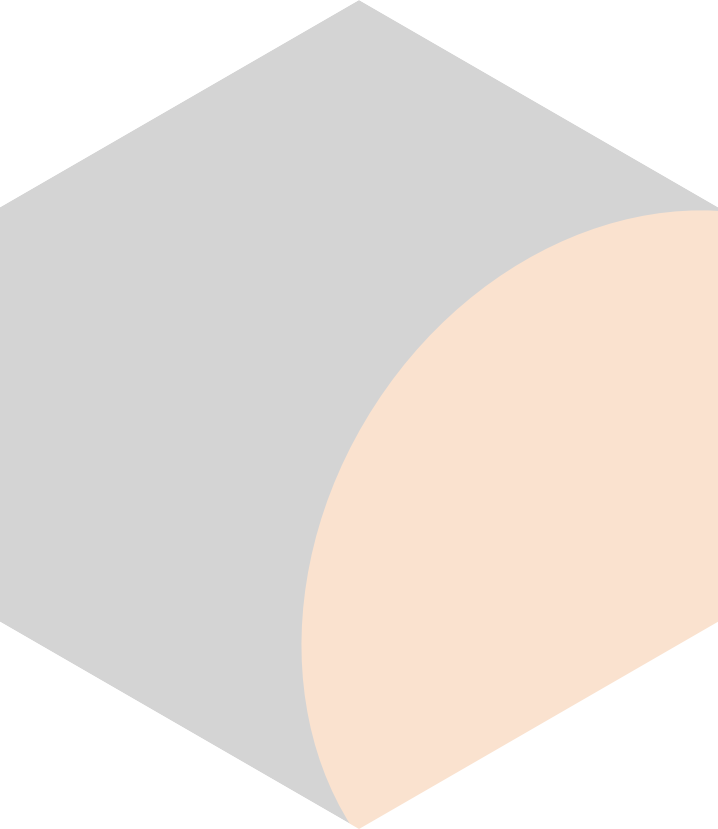
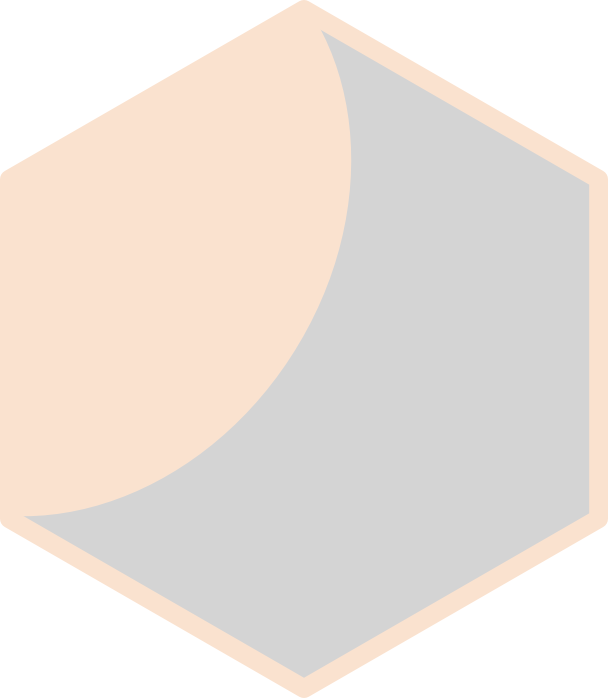
Feld Füttern_1 nur für sonne

diff --git a/frontend/Spielfenster.cs b/frontend/Spielfenster.cs
@@ -16,11 +16,16 @@ namespace ForestSpirits.Frontend
 		private Point wasserLocation;
 		private int sonneWidth = 100;
 		private int pflanzeWidth = 40;
+		private int feldWidth = 100;
 		private GameState lastGameState;
 		private Image sonneImg;
 		private Image wasserImg;
 		private Image setzlingImg;
 		private bool setzlingReady = false;
+		private bool sonneNehmen = false;
+		//private Image zweieckDefaultImg;
+		private Image zweieckMediumImg;
+		//private Image zweieckRipeImg;
 
 		public Spielfenster()
 		{
@@ -35,6 +40,12 @@ namespace ForestSpirits.Frontend
 			wasserImg = FileUtils.resizeImage(wasserImg, sonneWidth, sonneWidth);
 			setzlingImg = FileUtils.loadImage("setzling.png");
 			setzlingImg = FileUtils.resizeImage(setzlingImg, pflanzeWidth, pflanzeWidth);
+			//zweieckDefaultImg = FileUtils.loadImage("Zweieck.png");
+			//zweieckDefaultImg = FileUtils.resizeImage(zweieckDefaultImg, IMAGE_WIDTH, IMAGE_HEIGHT);
+			zweieckMediumImg = FileUtils.loadImage("Zweieck_medium.png");
+			zweieckMediumImg = FileUtils.resizeImage(zweieckMediumImg, feldWidth, feldWidth);
+			//zweieckRipeImg = FileUtils.loadImage("Zweieck_ripe.png");
+			//zweieckRipeImg = FileUtils.resizeImage(zweieckRipeImg, IMAGE_WIDTH, IMAGE_HEIGHT);
 		}
 
 		public void showGameState(GameState gameState)
@@ -83,14 +94,26 @@ namespace ForestSpirits.Frontend
 				Console.WriteLine("test");
 			}
 
+			foreach (Feld feld in gameState.feldRegister.felder)
+			{
+				Point location = board.getPoint(new Coordinate(feld.location.x, feld.location.y));
+				float fieldWidth = board.getfieldWidth();
+				float fieldHeight = board.getFieldHeight();
+				location.X += ((int)(fieldWidth) / 2) - zweieckMediumImg.Width / 2;
+				location.Y += ((int)(fieldHeight) / 2) - zweieckMediumImg.Width / 2;
+
+				graphics.DrawImage(zweieckMediumImg, location);
+				Console.WriteLine("test");
+			}
 			// Inventar befüllen
 			this.sonne.Text = "Sonne " + gameState.inventar.sonne;
 			this.wasser.Text = "Wasser " + gameState.inventar.wasser;
 			this.setzlinge.Text = "Setzlinge " + gameState.inventar.setzlinge;
 			lastGameState = gameState;
-		}
 
-		private void onClick(object sender, MouseEventArgs e)
+        }
+
+        private void onClick(object sender, MouseEventArgs e)
 		{
 			debugLastClick(e);
 
@@ -116,15 +139,19 @@ namespace ForestSpirits.Frontend
 				game.setzlingPflanzen(new BusinessCoordinate(coordinate.x, coordinate.y));
 				resetButtons();
 			}
-			else
-			{
-			}
-		}
+            if (sonneNehmen)
+            {
+                Coordinate coordinate = board.getCoordinates(e.X, e.Y);
+				game.fueternMitSonne(new BusinessCoordinate(coordinate.x, coordinate.y));
+				resetButtons();
+            }
+        }
 
-		// wenn geclickt wird, sollen die Buttons nicht "aktiv" bleiben
-		private void resetButtons()
+        // wenn geclickt wird, sollen die Buttons nicht "aktiv" bleiben
+        private void resetButtons()
 		{
 			this.setzlingReady = false;
+			this.sonneNehmen = false;
 		}
 
 		private void debugLastClick(MouseEventArgs e)
@@ -145,5 +172,10 @@ namespace ForestSpirits.Frontend
 		{
 			setzlingReady = true;
 		}
-	}
+
+		 private void sonne_Click(object sender, EventArgs e)
+        {
+            sonneNehmen = true;
+        }
+    }
 }

diff --git a/business/GameEngine.cs b/business/GameEngine.cs
@@ -1,5 +1,6 @@
 using System;
 using System.Collections.Generic;
+using System.Drawing;
 using System.Linq;
 using System.Text;
 using System.Threading;
@@ -54,7 +55,18 @@ namespace ForestSpirits.Business
 			}
 		}
 
-		private GameState update()
+        public void fueternMitSonne(BusinessCoordinate location)
+        {
+            if (lastGameState.inventar.sonne > 0)
+            {
+                lastGameState.inventar.sonne--;
+				Feld newFeld = new Feld(location);
+				lastGameState.feldRegister.felder.Add(newFeld);
+				//	//fieldImg = "Zwieeck_medium.png";//change the picture
+			}
+        }
+
+        private GameState update()
 		{
 			GameState gameState = new GameState();
 			gameState.time = DateTime.Now.ToString();
@@ -63,8 +75,9 @@ namespace ForestSpirits.Business
 			gameState.wasserZumSammeln = (lastGameState.wasserZumSammeln || random.NextDouble() < 0.1);
 			gameState.inventar = lastGameState.inventar;
 			gameState.pflanzenRegister = lastGameState.pflanzenRegister;
-
+			gameState.feldRegister = lastGameState.feldRegister;
 			return gameState;
 		}
+
 	}
 }

diff --git a/business/GameWindow.cs b/business/GameWindow.cs
@@ -15,11 +15,13 @@ namespace ForestSpirits.Business
 		public bool wasserZumSammeln;
 		public Inventar inventar;
 		public PflanzenRegister pflanzenRegister;
+		public feldRegister feldRegister;
 
 		public GameState()
 		{
 			inventar = new Inventar();
 			pflanzenRegister = new PflanzenRegister();
+			feldRegister = new feldRegister();
 		}
 	}
 
@@ -33,10 +35,21 @@ namespace ForestSpirits.Business
 		}
 	}
 
-	public class Inventar
+    public class feldRegister
+    {
+        public List<Feld> felder;
+
+        public feldRegister()
+        {
+            this.felder = new List<Feld>();
+        }
+    }
+
+    public class Inventar
 	{
 		public int sonne;
 		public int wasser;
 		public int setzlinge = 99;
+		public int pilze;
 	}
 }

diff --git a/frontend/Spielfenster.Designer.cs b/frontend/Spielfenster.Designer.cs
@@ -90,6 +90,7 @@ namespace ForestSpirits.Frontend
             this.sonne.TabIndex = 4;
             this.sonne.Text = "Sonne";
             this.sonne.UseVisualStyleBackColor = false;
+            this.sonne.Click += new System.EventHandler(this.sonne_Click);
             // 
             // wasser
             // 

diff --git a/business/Pflanze.cs b/business/Pflanze.cs
@@ -38,4 +38,14 @@ namespace ForestSpirits.Business
 			this.y = y;
 		}
 	}
+
+	public class Feld
+    {
+		public BusinessCoordinate location;
+		public Feld(BusinessCoordinate location)
+		{
+			this.location = location;
+		}
+
+	}
 }
